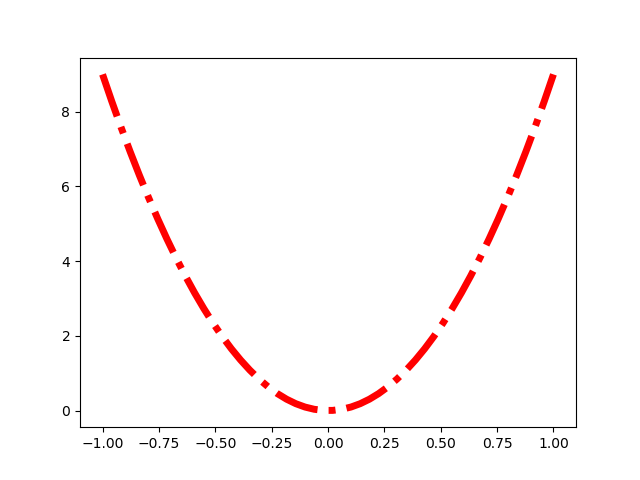
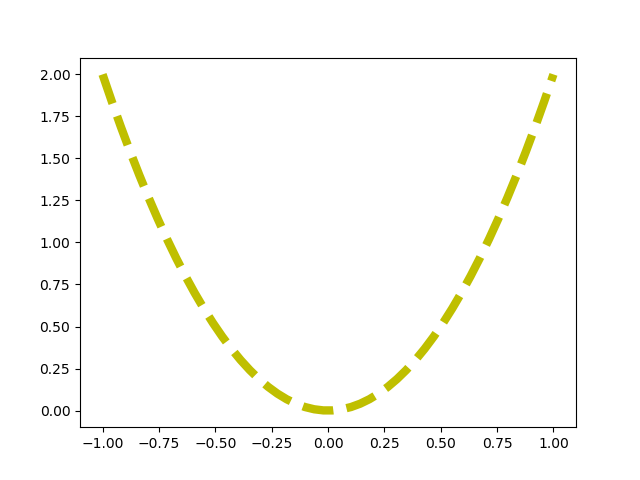
first commit

diff --git a/example.py b/example.py
@@ -2,7 +2,7 @@ import matplotlib.pyplot as plt
 import numpy as np
 
 x = np.linspace(-1, 1, 50)
-y = 9*x*x
+y = 2*x*x
 
-plt.plot(x, y,'r-.',linewidth=5)
+plt.plot(x, y,'y--',linewidth=6)
 plt.savefig('chart.png')

diff --git a/README.md b/README.md
@@ -1,4 +1,4 @@
-# Quadratic Line Chart Garnett 
+# Quadratic Line Chart Adell 
 
 Example for my book (matplotlib, python)
 
